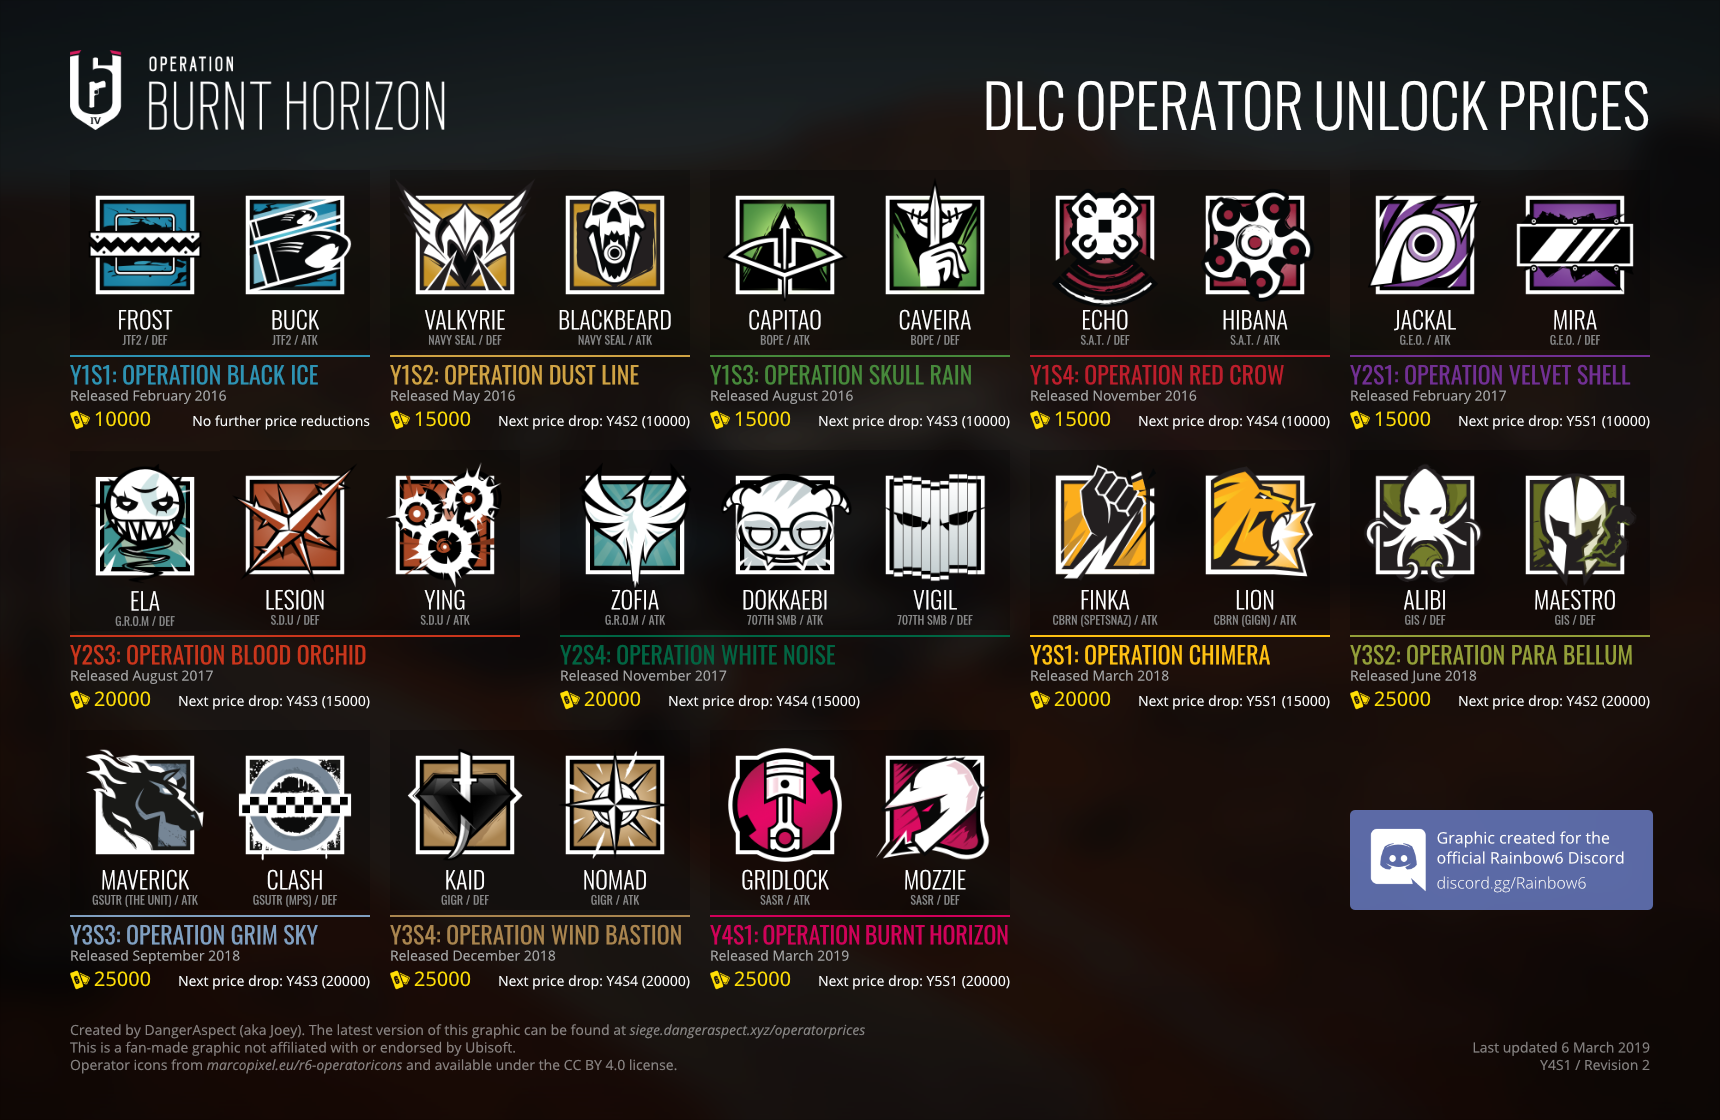
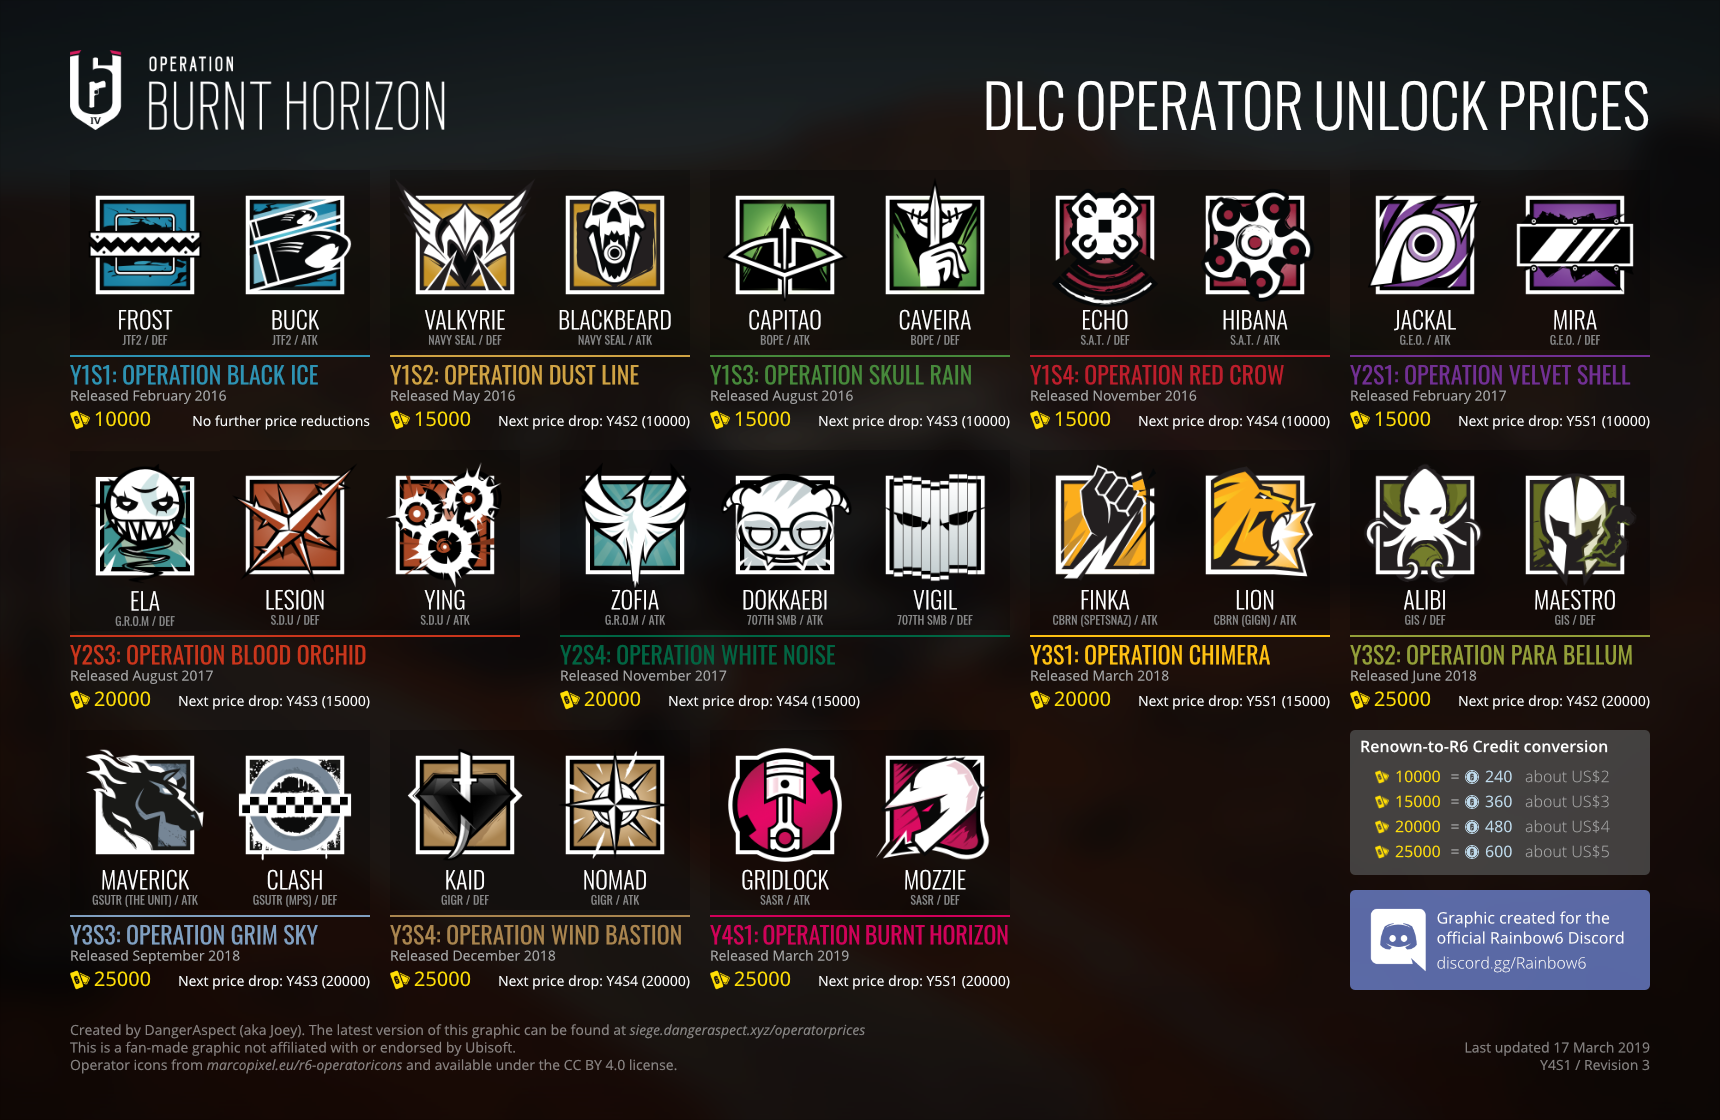
operator-prices: Y4S1 / Revision 3 Add conversion between R6 Credits and Renown

Changed region(s): [[0.7703, 0.625, 0.986, 0.9062]]

diff --git a/pages/operator-prices.md b/pages/operator-prices.md
@@ -23,7 +23,8 @@ The Operator Lifecycle is a way to make post-launch operators more accessible to
 
 ### Changelog and credits
 
-* **Y4S1 / Revision 2**: GIS operators incorrectly listed as GIGR
+* **Y4S1 / Revision 3**: Add conversion between R6 Credits and Renown
+* Y4S1 / Revision 2: GIS operators incorrectly listed as GIGR
 * Y4S1 / Revision 1: Initial release
 
 Operator icons from [marcopixel.eu/r6-operatoricons](htt[s://marcopixel.eu/r6-operatoricons]) and available under the CC BY 4.0 license.
